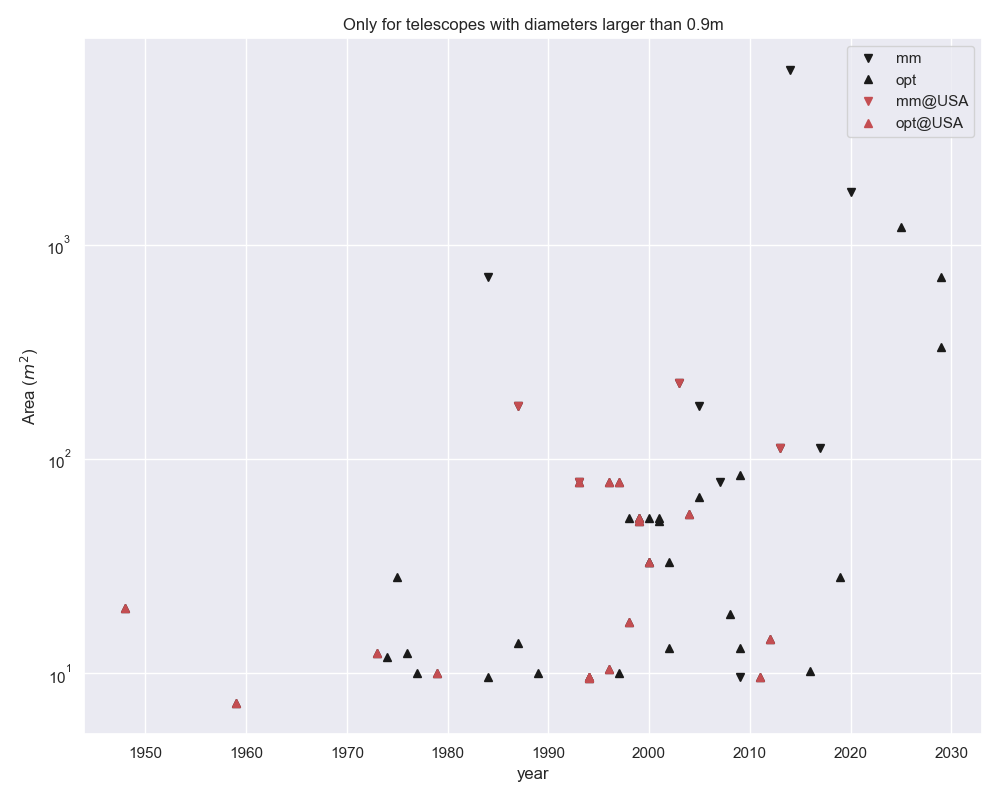
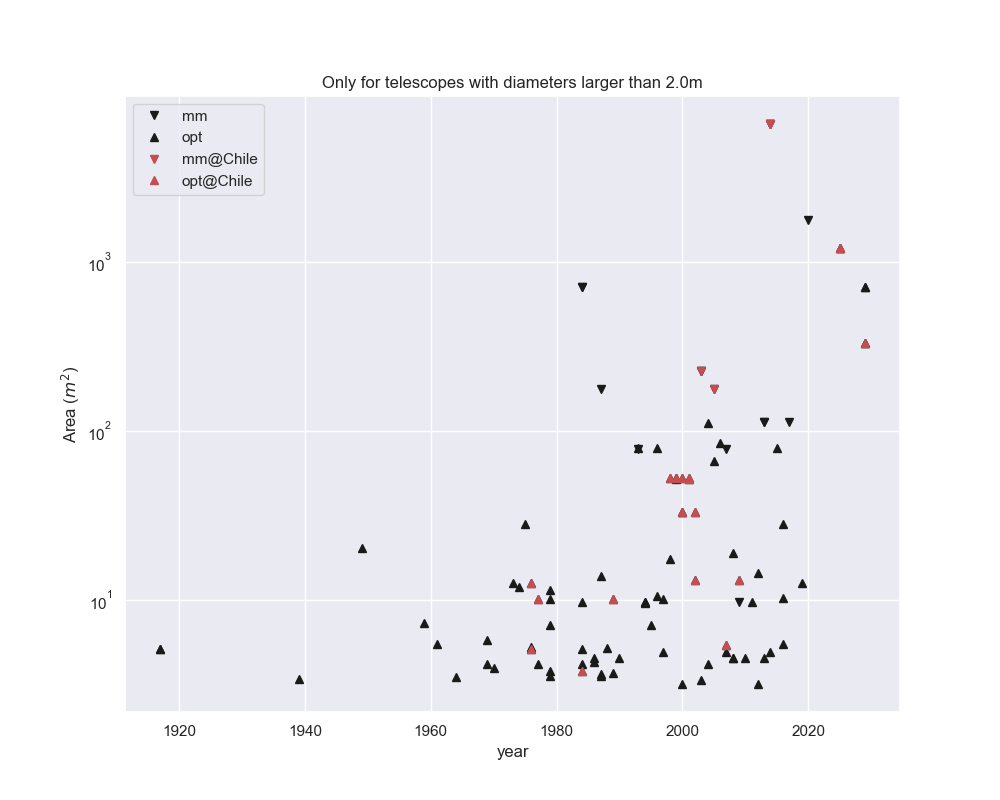
Accepting multiple column names for built column (first light, built, ...). Fixing output when discarding rows. Fixing hardcoding of Chile in plot labeling.

diff --git a/telstats.py b/telstats.py
@@ -29,6 +29,8 @@ class TelStats:
     def __init__(self,
                  site_ref="Chile",
                  min_diameter=3):
+        self.col_built = ["First light", "Built"]
+
         self.site_ref = site_ref
         self.min_diameter = min_diameter
         self.real_min_diameter = 0
@@ -37,6 +39,7 @@ class TelStats:
         self.add_wikipedia_tels()
         self.add_future_tels()
         self.add_mm_tels()
+
 
     def add_mm_tels(self,
                     clear_list=False,
@@ -49,7 +52,7 @@ class TelStats:
                  "Site": ["Chile", "USA", "Spain", "Antarctica",
                           "USA", "USA", "Space", "Chile",
                           "Greenland", "France", "USA"],
-                 "Built": [2014, 2003, 1984, 2007,
+                 self.col_built[0]: [2014, 2003, 1984, 2007,
                            1993, 1987, 2009, 2005,
                            2017, 2020, 2013],
                  "area": [54 * np.pi * 6 ** 2 + 12 * np.pi * 3.5 ** 2, 8 * np.pi * 3 ** 2, np.pi * 15 ** 2,
@@ -74,7 +77,7 @@ class TelStats:
                         verbose=False,
                         ):
         future = {"Name": ["E-ELT", "GMT", "TMT"],
-                  "Built": [2025, 2029, 2029],
+                  self.col_built[0]: [2025, 2029, 2029],
                   "area": [np.pi * (39.3 / 2) ** 2, 6 * np.pi * (8.4 / 2) ** 2, np.pi * 15 ** 2],
                   "Site": ["Chile", "Chile", "Spain"],
                   "range": ["optical"] * 3,
@@ -119,13 +122,27 @@ class TelStats:
         tels = tels.join(diameter).join(area.rename('area'))
         tels['range'] = 'optical'
 
+        def first_int(toconvert):
+            ret = int(re.search(r'\d+', toconvert).group())
+            return ret
+
         # extracting relevant columns
-        tels = tels[['Name', 'Built', 'area', 'range', 'Site']]
+        to_fill = tels[self.col_built[0]].isna()
+
+        for col in self.col_built[1:]:
+            available = tels[col].isna() == False
+            tels[self.col_built[0]][to_fill*available] = tels[col][to_fill*available]
+
+        tels = tels[['Name', self.col_built[0], 'area', 'range', 'Site']]
         dropping = tels.loc[(tels.isna()).sum(1) > 0]
-        tels = tels.dropna().astype({'Built': int}).sort_values(by='Built')
+        tels = tels.dropna()
+        tels[self.col_built[0]] = tels[self.col_built[0]].apply(first_int)
+        tels = tels.sort_values(by=self.col_built[0])
         if len(dropping):
-            print(f"WARNING: {len(dropping)} row(s) were discarded from wikipedia: "
-                  f"{', '.join(list(dropping['Name']))}\n")
+            nl = '\n'
+            texts = dropping[['Name', 'First light', 'area']].agg(lambda x: '{} [{}, {}m]'.format(*x), axis=1)
+            print(f"WARNING: {len(dropping)} row(s) were discarded from wikipedia (name [built, area]):\n - "
+                  f"{f'{nl} - '.join(texts)}")
 
         if verbose:
             print("Wikipedia tables parsed:")
@@ -179,10 +196,10 @@ class TelStats:
 
         if axes is None:
             f, axes = plt.subplots(figsize=(10, 8))
-        axes.semilogy(tels_mm['Built'], tels_mm['area'], 'kv', label="mm")
-        axes.semilogy(tels_opt['Built'], tels_opt['area'], 'k^', label="opt")
-        axes.semilogy(tels_mm_region['Built'], tels_mm_region['area'], 'rv', label=f"mm@{self.site_ref}")
-        axes.semilogy(tels_opt_region['Built'], tels_opt_region['area'], 'r^', label=f"opt@{self.site_ref}")
+        axes.semilogy(tels_mm[self.col_built[0]], tels_mm['area'], 'kv', label="mm")
+        axes.semilogy(tels_opt[self.col_built[0]], tels_opt['area'], 'k^', label="opt")
+        axes.semilogy(tels_mm_region[self.col_built[0]], tels_mm_region['area'], 'rv', label=f"mm@{self.site_ref}")
+        axes.semilogy(tels_opt_region[self.col_built[0]], tels_opt_region['area'], 'r^', label=f"opt@{self.site_ref}")
         axes.legend()
 
         self._set_custom_titles(axes, xlabel, ylabel, title)
@@ -223,7 +240,7 @@ class TelStats:
         tels = self.filter_region(data=tels, site_ref=site_ref)
         tels_split = self.select_range_region(tels)
 
-        digs = [np.digitize(tels_sub['Built'], bins, right=True) for tels_sub in tels_split]
+        digs = [np.digitize(tels_sub[self.col_built[0]], bins, right=True) for tels_sub in tels_split]
         cums = [np.array([tels_sub['area'].loc[digs_sub <= i].sum() for i in range(len(bins))])
                 for tels_sub, digs_sub in zip(tels_split, digs)]
 
@@ -244,7 +261,7 @@ class TelStats:
                              from_year=1960,
                              until_year=2035,
                              xlabel="year",
-                             ylabel="Percentage of area in Chile",
+                             ylabel="Percentage of area in ",
                              ylabel_right="Total telescope area",
                              title="Only for telescopes with diameters larger than {real_min_diameter:.1f}m",
                              axes=None,
@@ -296,6 +313,10 @@ class TelStats:
         instance used
 
         """
+        if site_ref is None:
+            site_ref = self.site_ref
+        ylabel += str(site_ref)
+
         bins = np.arange(from_year, until_year, dbin)
         cums = self.get_cumulatives(bins,
                                     site_ref=site_ref,

diff --git a/README.md b/README.md
@@ -11,7 +11,7 @@ import telstats
 ts = telstats.TelStats()
 ts.plot_fraction_region(site_ref="Chile", min_diameter=3)
 ts.plot_area_time()
-ts.show()
+ts.plot_show()
 ```
 
 try options `x_style=bar|line|none` and `x_params={<plot_custom_params>}`
